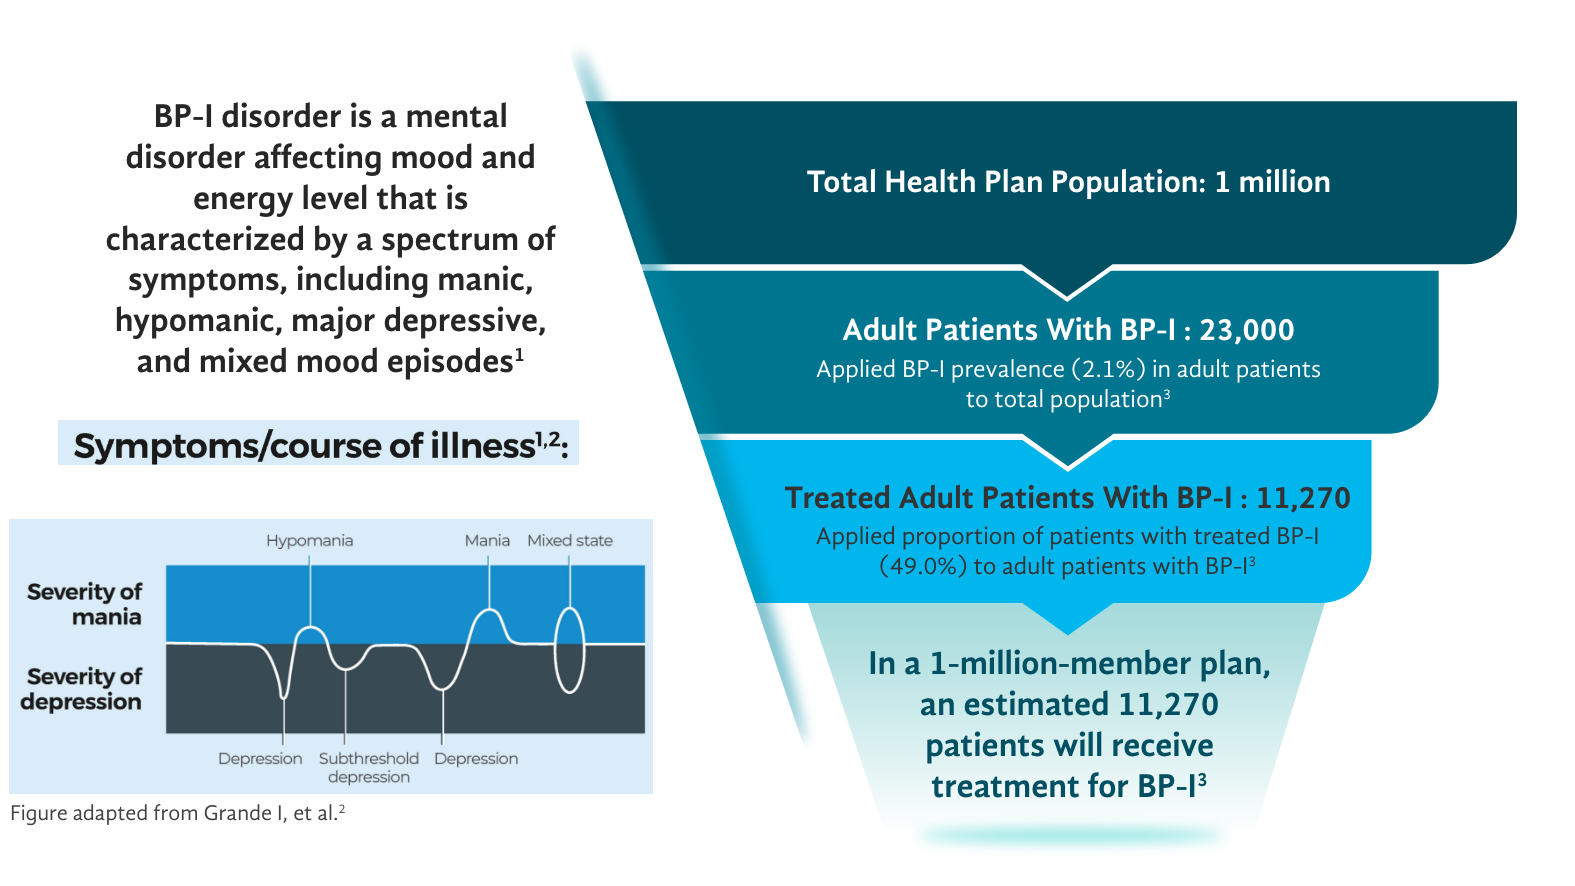
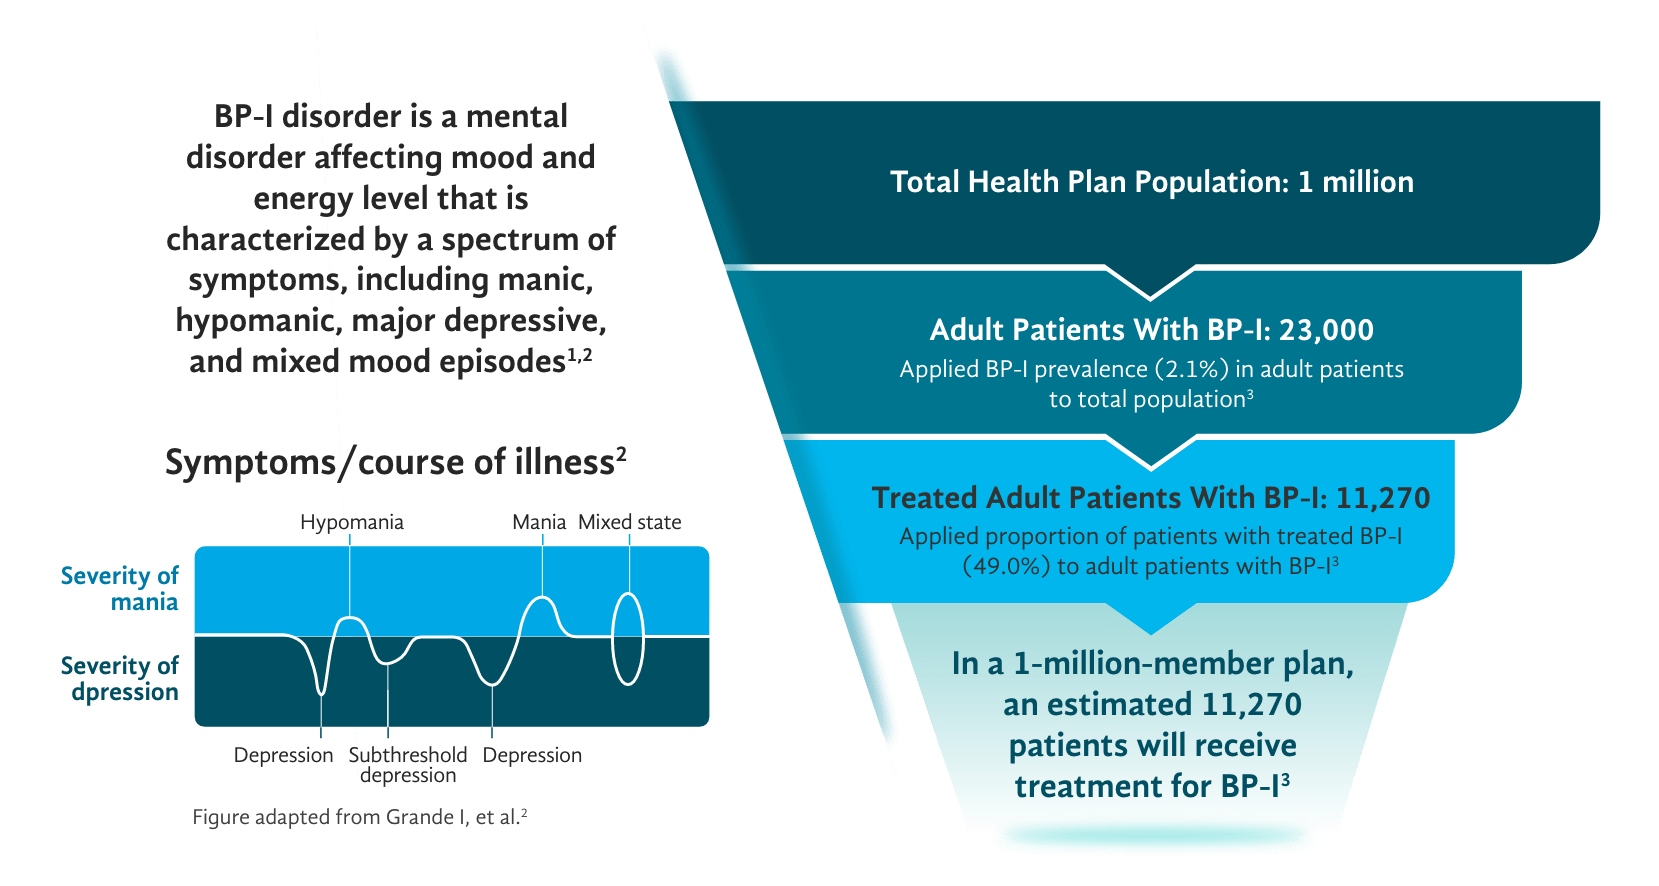
DF-33626 | Update - A.2.2.1_B_Overview

diff --git a/projects/veeva-clm/src/Components/05-pages/A.2.2.1_B_Overview/A.2.2.1_B_Overview.stories.jsx b/projects/veeva-clm/src/Components/05-pages/A.2.2.1_B_Overview/A.2.2.1_B_Overview.stories.jsx
@@ -20,8 +20,9 @@ const baseClass = 'page--A_2_2_1_B_Overview';
 const content = () => (
   <>
     <Header custom='mb-22'>
-      Bipolar I disorder (BP-I) is a recurrent episodic mood disorder affecting
-      ~2.3% of US adults<sup>1-3</sup>
+      Bipolar I disorder (BP-I) is a recurrent episodic mood
+      <br />
+      disorder affecting ~2.3% of US adults<sup>1-3</sup>
     </Header>
     <img className={`${baseClass}-chart-1`} src={B_Overview} alt='' />
     <Footer
@@ -45,7 +46,7 @@ const content = () => (
             ),
           },
           {
-            text: 'Treatment Advocacy Center. Available at: https://www.treatmentadvocacycenter.org/evidence-and-research/fast-facts. Accessed January 31, 2023.',
+            text: 'Treatment Advocacy Center. https://www.treatmentadvocacycenter.org/evidence-and-research/fast-facts. Accessed January 31, 2023.',
           },
         ],
       }}

diff --git a/projects/veeva-clm/src/Components/01-atoms/Content/References/References.jsx b/projects/veeva-clm/src/Components/01-atoms/Content/References/References.jsx
@@ -14,7 +14,7 @@ export const References = ({ custom, references }) => {
 
         return (
           <span key={index}>
-            <strong>{index + 1}. </strong>
+            <strong>{index + 1}.</strong>&nbsp;
             <span className={classNames(fileClass)}>{ref.text}</span>{' '}
           </span>
         );

diff --git a/projects/veeva-clm/src/Components/05-pages/A.2.2.1_B_Overview/style.scss b/projects/veeva-clm/src/Components/05-pages/A.2.2.1_B_Overview/style.scss
@@ -1,8 +1,8 @@
 @import "@base/variables";
 .page--A_2_2_1_B_Overview {
   &-chart-1 {
-    width: 788px;
+    width: 830px;
     position: relative;
-    left: 15px;
+    left: -25px;
   }
 }
